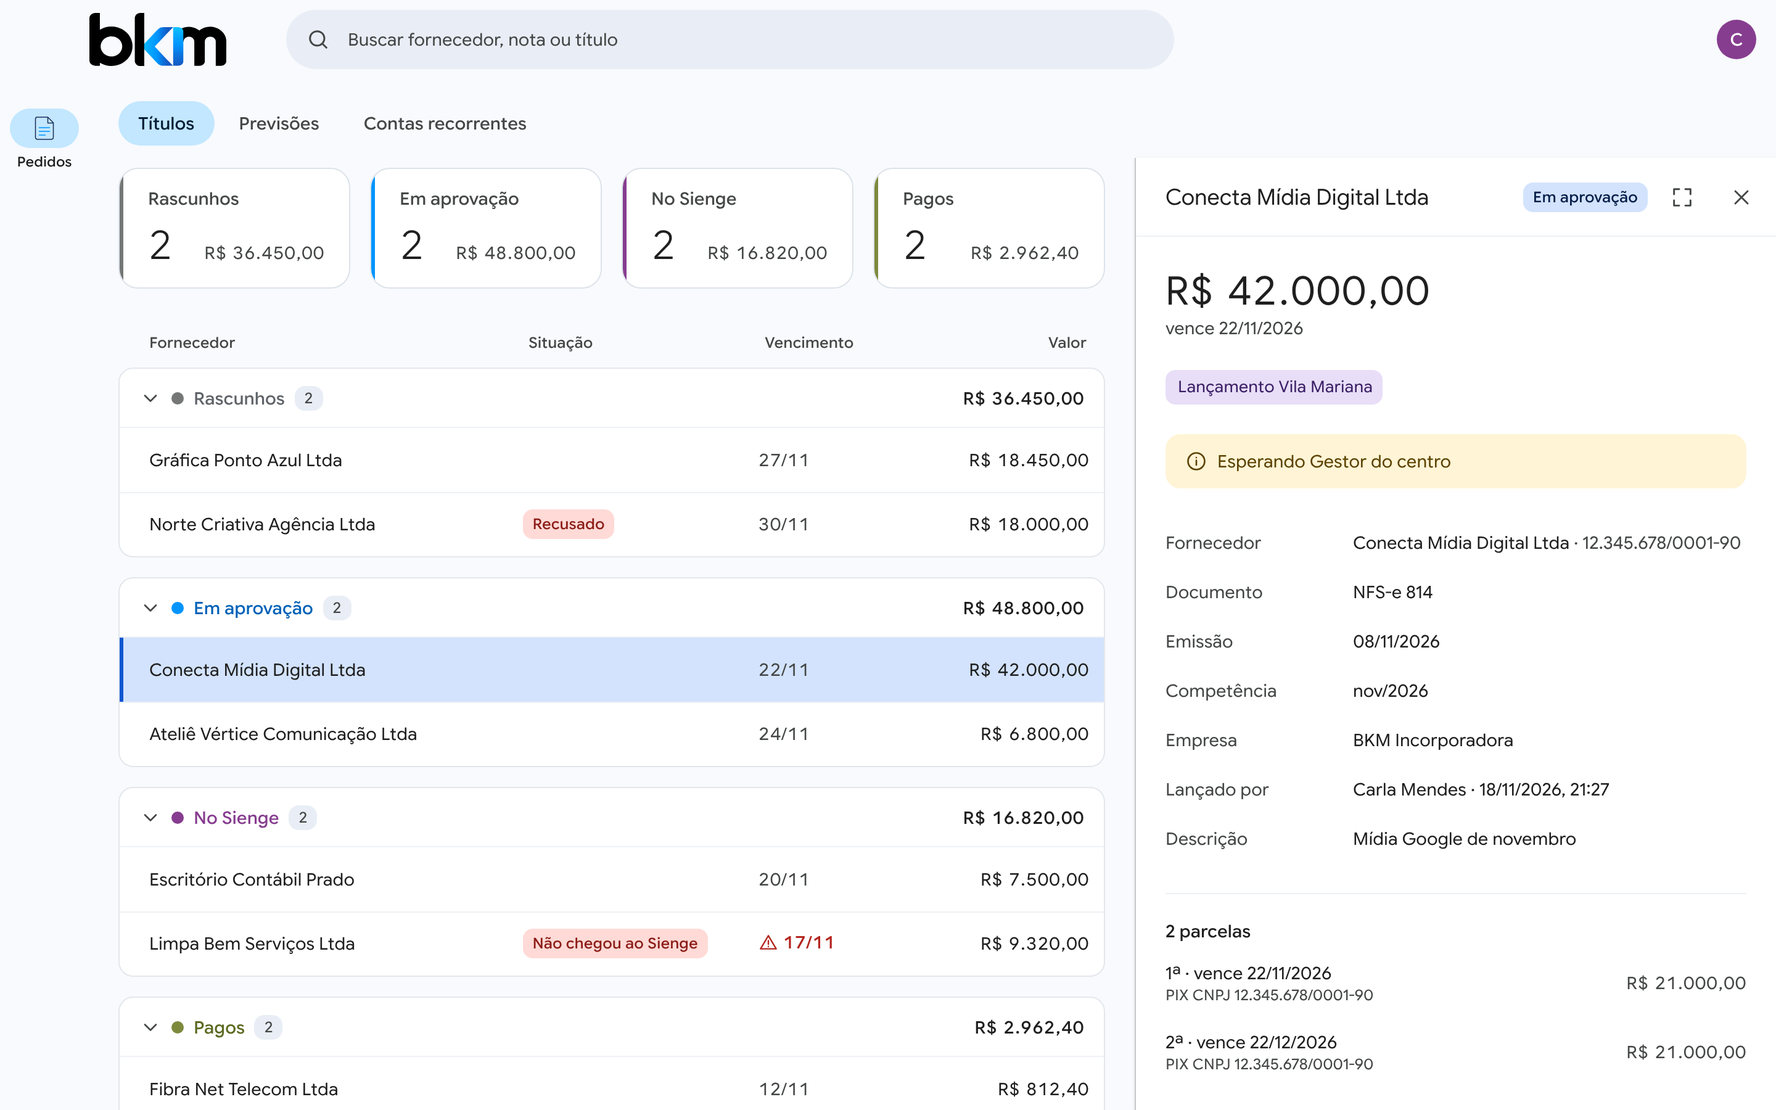
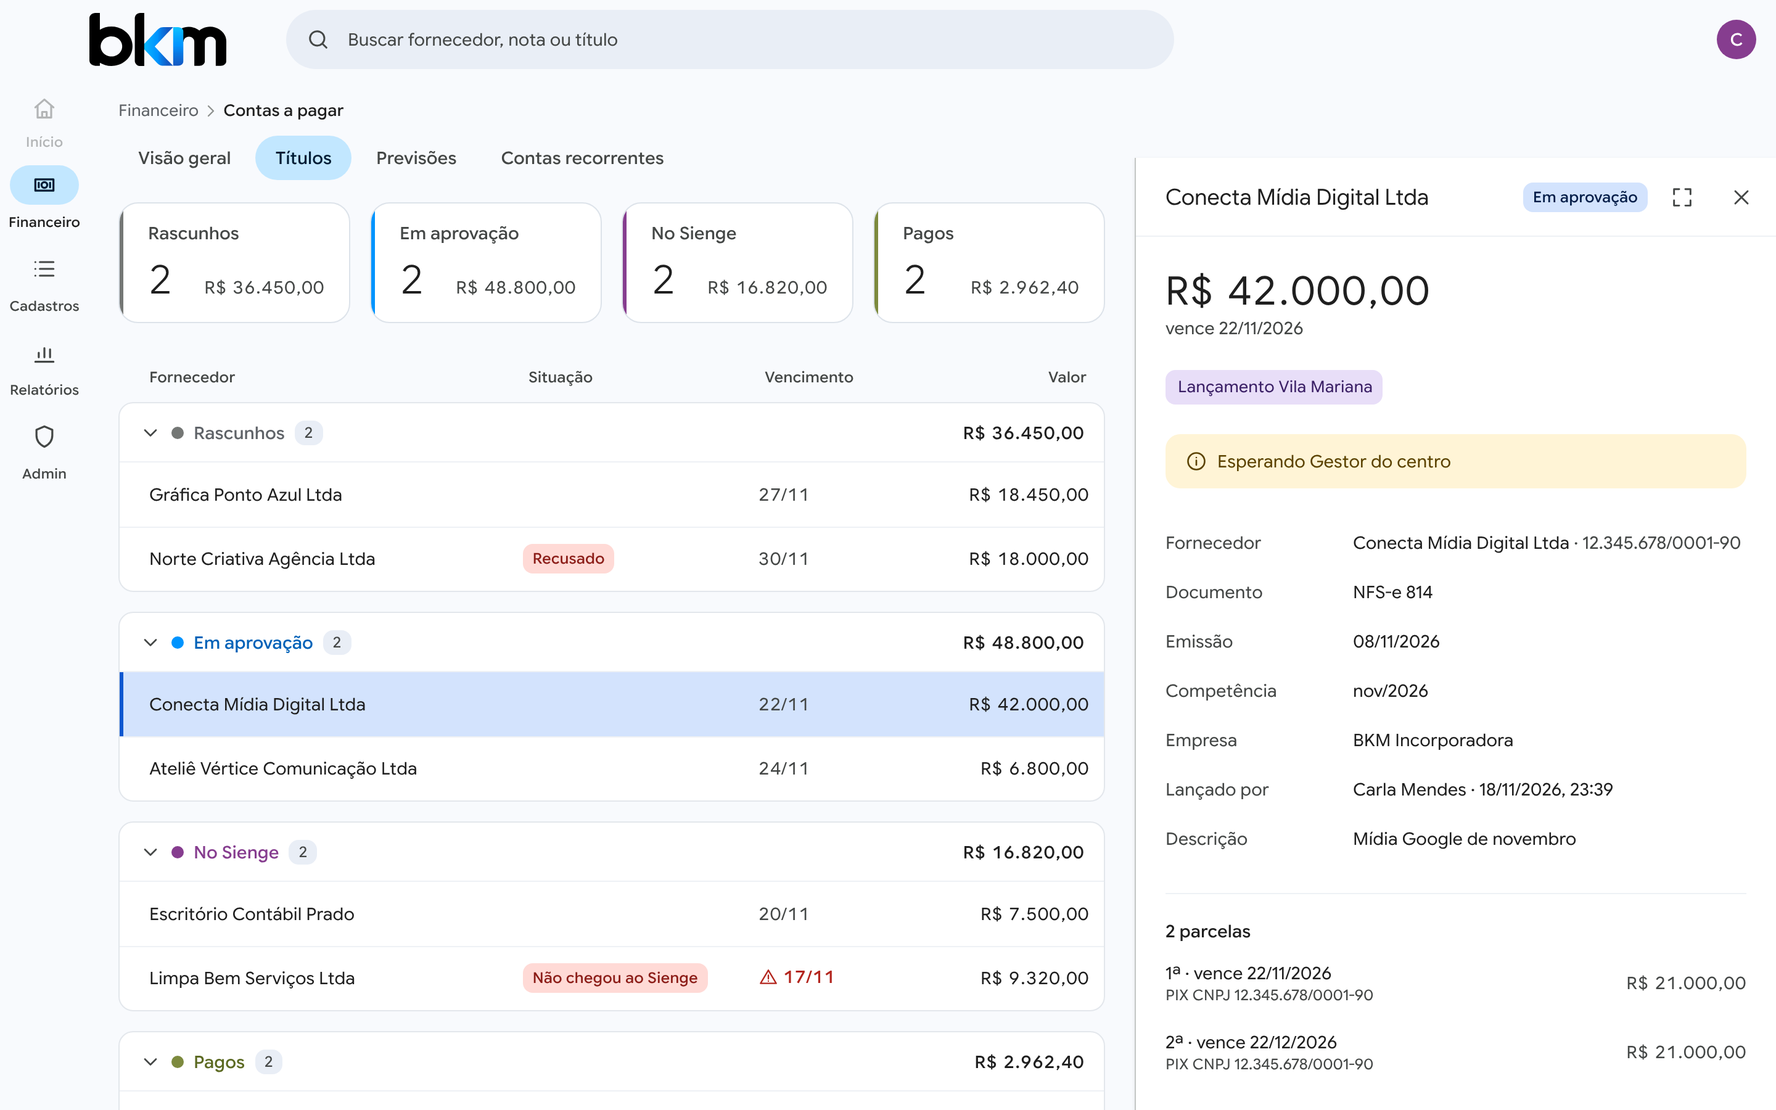
Navegação em três níveis e visão geral de Contas a pagar
Menu lateral com os módulos, gaveta dos submódulos e segunda gaveta com as páginas, abertas pelo mouse; trilha no alto da página; página /contas-a-pagar com números do momento e um cartão por seção.

Claude-Session: https://claude.ai/code/session_01KV2LwR2SUtD18ECjF8APje

diff --git a/apps/web/src/pages/ContasPagar.tsx b/apps/web/src/pages/ContasPagar.tsx
@@ -1,0 +1,80 @@
+// Visão geral de Contas a pagar (pedido do Moises, 18/11/2026): alguns números do momento e um cartão por seção,
+// com ícone, o que a pessoa encontra ali e o que pode fazer. Didática para quem chega; o dado vem das mesmas funções das listas.
+import { useQuery } from '@tanstack/react-query';
+import { Link } from 'react-router-dom';
+import { Cab, COR, Ic, type Cor } from '../components/Comum';
+import { hojeISO, reais0 } from '../lib/format';
+import type { NomeIcone } from '../lib/icones';
+import { rpc } from '../lib/supabase';
+import type { Contrato, Previsao, Titulo } from '../lib/tipos';
+
+const emDias = (n: number) => { const d = new Date(); d.setDate(d.getDate() + n); return d.toISOString().slice(0, 10); };
+const aberto = (t: Titulo) => !['pago', 'cancelado'].includes(t.etapa);
+const soma = (l: { valor: number | string | null }[]) => l.reduce((a, x) => a + Number(x.valor ?? 0), 0);
+
+type Secao = { to: string; r: string; ic: NomeIcone; cor: Cor; txt: string; faz: string[]; num: string };
+
+export function ContasPagar() {
+  const t = useQuery({ queryKey: ['titulos'], queryFn: () => rpc<Titulo[]>('titulos') }).data ?? [];
+  const p = useQuery({ queryKey: ['previsoes'], queryFn: () => rpc<Previsao[]>('previsoes') }).data ?? [];
+  const c = useQuery({ queryKey: ['contratos'], queryFn: () => rpc<Contrato[]>('contratos') }).data ?? [];
+  const hoje = hojeISO();
+  const semana = t.filter(x => aberto(x) && !!x.vencimento && x.vencimento >= hoje && x.vencimento <= emDias(7));
+  const vencidos = t.filter(x => aberto(x) && !!x.vencimento && x.vencimento < hoje);
+  const emAprov = t.filter(x => x.etapa === 'aprovacao');
+  const prevEsp = p.filter(x => x.situacao === 'aberta' && x.aprovacao === 'esperando');
+  const ativos = c.filter(x => x.situacao === 'ativo');
+  const mensal = ativos.filter(x => x.periodicidade === 'mensal').reduce((a, x) => a + Number(x.valor_periodo ?? 0), 0);
+
+  const kpis: { r: string; v: string; n: string; alerta?: boolean; to: string }[] = [
+    { r: 'A pagar nos próximos 7 dias', v: reais0(soma(semana)), n: `${semana.length} ${semana.length === 1 ? 'título' : 'títulos'}`, to: '/titulos' },
+    { r: 'Vencidos sem pagamento', v: reais0(soma(vencidos)), n: `${vencidos.length} ${vencidos.length === 1 ? 'título' : 'títulos'}`, alerta: vencidos.length > 0, to: '/titulos' },
+    { r: 'Esperando aprovação', v: reais0(soma(emAprov) + soma(prevEsp)), n: `${emAprov.length} ${emAprov.length === 1 ? 'título' : 'títulos'} e ${prevEsp.length} ${prevEsp.length === 1 ? 'previsão' : 'previsões'}`, to: '/titulos?f=aprov' },
+    { r: 'Contas recorrentes', v: `${reais0(mensal)}`, n: `por mês, ${ativos.length} ativas`, to: '/contratos' },
+  ];
+  const secoes: Secao[] = [
+    {
+      to: '/titulos', r: 'Títulos', ic: 'doc', cor: COR.azul,
+      txt: 'Cada nota, fatura ou boleto que a BKM vai pagar. O título vai do rascunho à aprovação, depois ao Sienge e ao pagamento.',
+      faz: ['Ver em que passo está cada título', 'Saber quem ainda precisa aprovar', 'Achar o que venceu ou não chegou ao Sienge'],
+      num: `${t.filter(aberto).length} em aberto`,
+    },
+    {
+      to: '/previsoes', r: 'Previsões', ic: 'clock', cor: COR.terra,
+      txt: 'Gastos combinados antes do serviço acontecer. Aprovada, a previsão reserva o valor, e a nota que chega depois consome o saldo.',
+      faz: ['Ver o que já está reservado', 'Acompanhar o saldo de cada previsão', 'Saber o que espera aprovação'],
+      num: `${p.filter(x => x.situacao === 'aberta').length} abertas`,
+    },
+    {
+      to: '/contratos', r: 'Contas recorrentes', ic: 'repetir', cor: COR.verde,
+      txt: 'Contratos de serviço e assinaturas que se repetem: o valor de cada período, o dia do vencimento e até quando valem.',
+      faz: ['Ver o que a BKM paga todo mês', 'Saber o que vence nos próximos 60 dias', 'Consultar contratos encerrados'],
+      num: `${ativos.length} ativas`,
+    },
+  ];
+  return (
+    <div className="f-pag cp">
+      <Cab t="Contas a pagar" />
+      <div className="cp-kpis">
+        {kpis.map(k => (
+          <Link key={k.r} to={k.to} className="cp-kpi">
+            <span className="cp-kr">{k.r}</span>
+            <span className={`cp-kv num ${k.alerta ? 'atras' : ''}`}>{k.v}</span>
+            <span className="cp-kn">{k.n}</span>
+          </Link>
+        ))}
+      </div>
+      <div className="cp-cards">
+        {secoes.map(s => (
+          <Link key={s.to} to={s.to} className="cp-card" style={{ ['--cc' as string]: s.cor.c, ['--ct' as string]: s.cor.t }}>
+            <span className="cp-ic"><Ic n={s.ic} s={32} /></span>
+            <span className="cp-t">{s.r}<span className="cp-num">{s.num}</span></span>
+            <span className="cp-txt">{s.txt}</span>
+            <span className="cp-faz">{s.faz.map(f => <span key={f}><Ic n="check" s={18} />{f}</span>)}</span>
+            <span className="cp-ir">Abrir {s.r}<Ic n="fwd" s={18} /></span>
+          </Link>
+        ))}
+      </div>
+    </div>
+  );
+}

diff --git a/apps/web/src/components/Moldura.tsx b/apps/web/src/components/Moldura.tsx
@@ -1,9 +1,10 @@
 // Moldura do ERP: barra de cima, menu lateral (barra de baixo no celular) e a área da página.
 // Desenho do protótipo aprovado (tpl.js › moldura); comportamento do BKM Terrenos (components/Moldura.tsx).
-import { useCallback, useState, type ReactNode } from 'react';
+import { useCallback, useEffect, useRef, useState, type ReactNode } from 'react';
 import { NavLink, useLocation, useSearchParams } from 'react-router-dom';
 import { useSessao } from '../lib/sessao';
-import { BASE, Ic, Logo, useFora } from './Comum';
+import { Ic, Logo, useFora } from './Comum';
+import { MODULOS, ondeEstou, type Modulo } from '../lib/modulos';
 
 const PAPEL: Record<string, string> = { diretor: 'Diretor', gestor: 'Gestor', analista: 'Analista', leitura: 'Leitura' };
 
@@ -17,7 +18,7 @@ export function Moldura({ children }: { children: ReactNode }) {
   const busca = q.get('q') ?? '';
   const comGaveta = /^\/(titulos|previsoes|contratos)\/[^/]+/.test(loc.pathname);
   const foto = sessao?.user.user_metadata?.avatar_url as string | undefined;
-  const pedidos = ['/titulos', '/previsoes', '/contratos'].some(p => loc.pathname.startsWith(p));
+  const atual = ondeEstou(loc.pathname);
 
   function buscar(v: string) {
     const n = new URLSearchParams(q);
@@ -50,14 +51,58 @@ export function Moldura({ children }: { children: ReactNode }) {
             )}
           </div>
         </header>
-        <nav className="rail">
-          <span className="fabr-vaga" />
-          <NavLink to={`/titulos${loc.search}`} className={`ri ${pedidos ? 'on' : ''}`}>
-            <span className="pil"><img src={`${BASE}marca/icone-documento.svg`} alt="" /></span>Pedidos
-          </NavLink>
-        </nav>
+        <Menu atual={atual.m?.k} sub={atual.s?.r} />
         <main className={`main ${comGaveta ? 'com-gav' : ''}`}>{children}</main>
       </div>
+    </div>
+  );
+}
+
+/** Menu lateral com os módulos; o submódulo abre numa coluna ao lado (clique, ou o mouse parado 0,3 s), que fecha ao sair. */
+function Menu({ atual, sub }: { atual?: string; sub?: string }) {
+  const [aberto, setAberto] = useState<string | null>(null);
+  const t = useRef<number>();
+  const fechar = useCallback(() => setAberto(null), []);
+  const ref = useFora<HTMLDivElement>(aberto != null, fechar);
+  const loc = useLocation();
+  useEffect(() => setAberto(null), [loc.pathname]);
+  useEffect(() => () => window.clearTimeout(t.current), []);
+  const m = MODULOS.find(x => x.k === aberto);
+  // Submódulo com filhos abre uma segunda coluna ao lado (como no Business Manager da Meta), no clique ou no mouse.
+  const [pai, setPai] = useState<string | null>(null);
+  useEffect(() => setPai(null), [aberto]);
+  const filhos = m?.subs.find(x => x.r === pai)?.filhos;
+  function agendar(k: string | null, ms: number) { window.clearTimeout(t.current); t.current = window.setTimeout(() => setAberto(k), ms); }
+  function item(x: Modulo) {
+    const conteudo = <><span className="pil"><Ic n={x.ic} s={22} /></span>{x.r}</>;
+    const cls = `ri ${x.k === atual ? 'on' : ''} ${x.k === aberto ? 'ab' : ''}`;
+    if (!x.subs.length) return <span key={x.k} className={`${cls} off`} title="Em breve">{conteudo}</span>;
+    return (
+      <button key={x.k} className={cls} aria-expanded={x.k === aberto} onClick={() => setAberto(x.k === aberto ? null : x.k)}
+        onMouseEnter={() => agendar(x.k, aberto ? 0 : 150)} onMouseLeave={() => window.clearTimeout(t.current)}>{conteudo}</button>
+    );
+  }
+  return (
+    <div className="nav-w" ref={ref} onMouseLeave={() => aberto && agendar(null, 400)} onMouseEnter={() => aberto && window.clearTimeout(t.current)}>
+      <nav className="rail" aria-label="Módulos">{MODULOS.map(item)}</nav>
+      {m && (
+        <div className="subm" role="menu" aria-label={m.r}>
+          <div className="subm-t">{m.r}</div>
+          {m.subs.map(s => !s.to
+            ? <span key={s.r} className="subm-i off" role="menuitem" aria-disabled="true" onMouseEnter={() => setPai(null)}>{s.r}<span className="subm-eb">Em breve</span></span>
+            : s.filhos
+              ? <NavLink key={s.r} to={s.to} role="menuitem" aria-haspopup="menu" aria-expanded={s.r === pai}
+                  className={`subm-i subm-pai ${s.r === sub && m.k === atual ? 'at' : ''} ${s.r === pai ? 'ab' : ''}`}
+                  onMouseEnter={() => setPai(s.r)} onFocus={() => setPai(s.r)}>{s.r}<Ic n="chev" s={18} /></NavLink>
+              : <NavLink key={s.r} to={s.to} role="menuitem" onMouseEnter={() => setPai(null)} className={`subm-i ${s.r === sub && m.k === atual ? 'on' : ''}`}>{s.r}</NavLink>)}
+        </div>
+      )}
+      {m && pai && filhos && (
+        <div className="subm subm2" role="menu" aria-label={pai}>
+          <div className="subm-t">{pai}</div>
+          {filhos.map(f => <NavLink key={f.to} to={f.to} end role="menuitem" className={({ isActive }) => `subm-i ${isActive ? 'on' : ''}`}>{f.r}</NavLink>)}
+        </div>
+      )}
     </div>
   );
 }

diff --git a/apps/web/src/app.css b/apps/web/src/app.css
@@ -157,3 +157,68 @@
   .f-gav .kv .v{font-size:16px;line-height:24px;border-bottom:0 !important;min-height:0 !important;padding:0}
   .f-gav .gav-f{padding:12px 16px calc(12px + env(safe-area-inset-bottom))}
 }
+
+/* ---------- Navegação em três níveis (18/11/2026): módulo no menu, submódulo na coluna ao lado, abas na página ---------- */
+.nav-w{display:contents}
+button.ri{cursor:pointer;font:inherit;font-size:11px;font-weight:500}
+.ri .pil{color:var(--m-on-var)}
+.ri.on .pil{color:#001d35}
+.ri.ab:not(.on) .pil{background:rgba(31,31,31,.08)}
+.ri.off{opacity:.38;cursor:default}
+.ri.off:hover .pil{background:none}
+.subm{position:fixed;left:80px;top:72px;z-index:80;width:264px;background:#fff;border:1px solid #e3e7ec;border-radius:16px;box-shadow:0 4px 16px rgba(60,64,67,.16);padding:8px 0 12px}
+.subm-t{font-size:14px;font-weight:500;color:var(--m-on-surface);padding:10px 24px 8px}
+.subm-i{display:flex;align-items:center;justify-content:space-between;gap:8px;height:44px;margin:0 8px;padding:0 16px;border-radius:22px;font-size:14px;color:var(--m-on-surface);text-decoration:none}
+a.subm-i:hover{background:rgba(31,31,31,.06)}
+.subm-i.on{background:#c2e7ff;color:#001d35;font-weight:500}
+.subm-i.off{color:#8e918f;cursor:default}
+.subm-eb{font-size:11px;color:#8e918f}
+.f-trilha{display:flex;align-items:center;gap:2px;font-size:13px;color:#5f6368;height:28px;padding-top:8px}
+.f-trilha b{font-weight:500;color:var(--m-on-surface)}
+.f-trilha .ic{color:#8e918f}
+@container app (max-width:900px){
+  .subm{left:8px;right:8px;top:auto;bottom:88px;width:auto}
+  .f-trilha{padding:8px 16px 0}
+  .ri{font-size:11px}
+}
+.subm-pai{width:calc(100% - 16px);border:0;background:none;font:inherit;font-size:14px;cursor:pointer;text-align:left}
+.subm-pai:hover{background:rgba(31,31,31,.06)}
+.subm-pai.at{font-weight:500}
+.subm-pai .ic{color:#5f6368}
+.subm-pai.ab{background:rgba(31,31,31,.08)}
+.subm2{left:352px;width:240px}
+@container app (max-width:900px){ .subm2{left:8px;z-index:81} }
+.f-trilha a{color:inherit;text-decoration:none}
+.f-trilha a:not(.active):hover b{text-decoration:underline}
+
+/* ---------- Visão geral de Contas a pagar (18/11/2026) ---------- */
+.cp-kpis{display:grid;grid-template-columns:repeat(4,minmax(0,1fr));gap:16px;margin-bottom:32px}
+.cp-kpi{display:flex;flex-direction:column;gap:4px;padding:20px 24px;background:#fff;border:1px solid #e3e7ec;border-radius:16px;text-decoration:none;color:inherit;min-height:120px}
+.cp-kpi:hover{border-color:#c4c7c5;background:#fbfcfe}
+.cp-kr{font-size:14px;color:#444746}
+.cp-kv{font-size:32px;line-height:40px;font-weight:300;color:var(--m-on-surface);margin-top:auto;white-space:nowrap;overflow:hidden;text-overflow:ellipsis}
+.cp-kv.atras{color:var(--cr)}
+.cp-kn{font-size:13px;color:#5f6368}
+.cp-cards{display:grid;grid-template-columns:repeat(3,minmax(0,1fr));gap:24px}
+.cp-card{display:flex;flex-direction:column;gap:12px;padding:28px 28px 24px;background:#fff;border:1px solid #e3e7ec;border-radius:24px;text-decoration:none;color:inherit;transition:box-shadow .15s,border-color .15s}
+.cp-card:hover{border-color:transparent;box-shadow:0 1px 3px rgba(60,64,67,.15),0 4px 12px rgba(60,64,67,.12)}
+.cp-ic{width:64px;height:64px;border-radius:20px;display:grid;place-items:center;color:var(--ct);background:color-mix(in srgb,var(--cc) 14%,#fff);margin-bottom:8px}
+.cp-t{display:flex;align-items:baseline;justify-content:space-between;gap:12px;font-size:22px;line-height:28px;font-weight:400;color:var(--m-on-surface)}
+.cp-num{font-size:13px;font-weight:500;color:var(--ct);white-space:nowrap}
+.cp-txt{font-size:14px;line-height:22px;color:#444746}
+.cp-faz{display:flex;flex-direction:column;gap:8px;padding:12px 0 4px;border-top:1px solid #eef0f3;margin-top:4px}
+.cp-faz span{display:flex;align-items:center;gap:10px;font-size:14px;color:var(--m-on-surface)}
+.cp-faz .ic{color:var(--ct);flex:none}
+.cp-ir{display:flex;align-items:center;gap:6px;margin-top:auto;padding-top:12px;font-size:14px;font-weight:500;color:#0b57d0}
+.cp-card:hover .cp-ir .ic{transform:translateX(3px)}
+.cp-ir .ic{transition:transform .15s}
+@container app (max-width:1279px){ .cp-kpis{grid-template-columns:repeat(2,minmax(0,1fr))} }
+@container app (max-width:1100px){ .cp-cards{grid-template-columns:minmax(0,1fr)} .cp-card{display:grid;grid-template-columns:64px minmax(0,1fr);column-gap:20px} .cp-card>*:not(.cp-ic){grid-column:2} .cp-ic{grid-row:1/span 5;margin:0} }
+@container app (max-width:900px){
+  .cp .cp-kpis,.cp .cp-cards{padding:0 16px}
+  .cp-kpis{gap:12px;margin-bottom:24px}
+  .cp-kpi{padding:16px;min-height:104px;border-radius:12px}
+  .cp-kv{font-size:24px;line-height:32px}
+  .cp-card{display:flex;padding:24px 20px;border-radius:16px}
+  .cp-cards{gap:16px}
+}

diff --git a/apps/web/src/components/Comum.tsx b/apps/web/src/components/Comum.tsx
@@ -1,6 +1,7 @@
 // Peças comuns das telas, no desenho da linha F do protótipo aprovado (tpl.js: ic, dTiles, fCab, fAbas, fGrupo, gavB, kvB, ch).
 import { useEffect, useRef, useState, type KeyboardEvent as TeclaReact, type ReactNode } from 'react';
-import { NavLink, useParams } from 'react-router-dom';
+import { NavLink, useLocation, useParams } from 'react-router-dom';
+import { ondeEstou } from '../lib/modulos';
 import { P, type NomeIcone } from '../lib/icones';
 import { AMBIENTE } from '../lib/config';
 
@@ -43,7 +44,7 @@ export function Chip({ t, c }: { t: string; c: CorChip }) {
 
 /** Abas da página de pedidos (tpl.js › fAbas). */
 export function Abas() {
-  const abas: [string, string][] = [['/titulos', 'Títulos'], ['/previsoes', 'Previsões'], ['/contratos', 'Contas recorrentes']];
+  const abas: [string, string][] = [['/contas-a-pagar', 'Visão geral'], ['/titulos', 'Títulos'], ['/previsoes', 'Previsões'], ['/contratos', 'Contas recorrentes']];
   return <nav className="f-abas">{abas.map(([to, r]) => <NavLink key={to} to={to} className={({ isActive }) => (isActive ? 'on' : '')}>{r}</NavLink>)}</nav>;
 }
 
@@ -57,7 +58,13 @@ export type Cor = (typeof COR)[keyof typeof COR];
 /** Linha de cabeçalho compacta: as abas no lugar do título grande (o h1 fica só para leitor de tela) e as ações à direita. */
 export function Cab({ t, children }: { t: string; children?: ReactNode }) {
   useEffect(() => { document.title = `${t} · ERP BKM`; }, [t]);
-  return <div className="f-head"><h1 className="sr-only">{t}</h1><Abas /><span className="esp" />{children}</div>;
+  const { m, s } = ondeEstou(useLocation().pathname);
+  return (
+    <>
+      {m && s && <nav className="f-trilha" aria-label="Onde estou"><span>{m.r}</span><Ic n="chev" s={16} />{s.to ? <NavLink to={s.to} end><b>{s.r}</b></NavLink> : <b>{s.r}</b>}</nav>}
+      <div className="f-head"><h1 className="sr-only">{t}</h1><Abas /><span className="esp" />{children}</div>
+    </>
+  );
 }
 
 /** Contadores que filtram (tpl.js › dTiles): o clique no ligado volta para "todos". A cor é a do grupo, nunca a da posição. */

diff --git a/apps/web/src/lib/modulos.ts b/apps/web/src/lib/modulos.ts
@@ -1,0 +1,28 @@
+// Árvore de navegação do ERP: módulo (menu lateral) › submódulo (coluna ao lado do menu) › abas da página.
+// Lista de módulos do passo 1 (doc de telas de 8/11/2026). Submódulo sem `to` ainda não existe e aparece apagado.
+import type { NomeIcone } from './icones';
+
+export type Sub = { r: string; to?: string; rotas?: string[]; filhos?: { r: string; to: string }[] };
+export type Modulo = { k: string; r: string; ic: NomeIcone; subs: Sub[] };
+
+export const MODULOS: Modulo[] = [
+  { k: 'inicio', r: 'Início', ic: 'casa', subs: [] },
+  {
+    k: 'fin', r: 'Financeiro', ic: 'money', subs: [
+      { r: 'Contas a pagar', to: '/contas-a-pagar', rotas: ['/contas-a-pagar', '/titulos', '/previsoes', '/contratos'], filhos: [
+        { r: 'Visão geral', to: '/contas-a-pagar' }, { r: 'Títulos', to: '/titulos' }, { r: 'Previsões', to: '/previsoes' }, { r: 'Contas recorrentes', to: '/contratos' }] },
+      { r: 'Recebimento de notas' },
+      { r: 'Retenções' },
+      { r: 'Plano financeiro' },
+    ],
+  },
+  { k: 'cad', r: 'Cadastros', ic: 'lista', subs: [{ r: 'Fornecedores' }, { r: 'Núcleos e centros' }, { r: 'Naturezas' }] },
+  { k: 'rel', r: 'Relatórios', ic: 'grafico', subs: [{ r: 'Contas a pagar' }] },
+  { k: 'adm', r: 'Admin', ic: 'escudo', subs: [{ r: 'Pessoas e acessos' }, { r: 'Alçadas' }, { r: 'Notificações' }] },
+];
+
+/** Módulo e submódulo da rota atual. */
+export function ondeEstou(caminho: string): { m?: Modulo; s?: Sub } {
+  for (const m of MODULOS) for (const s of m.subs) if (s.rotas?.some(r => caminho.startsWith(r))) return { m, s };
+  return {};
+}

diff --git a/apps/web/src/App.tsx b/apps/web/src/App.tsx
@@ -7,6 +7,7 @@ import { Moldura } from './components/Moldura';
 import { Titulos } from './pages/Titulos';
 import { Previsoes } from './pages/Previsoes';
 import { Contratos } from './pages/Contratos';
+import { ContasPagar } from './pages/ContasPagar';
 
 export function App() {
   const { sessao, carregando, eu, euCarregando, euErro } = useSessao();
@@ -20,11 +21,12 @@ export function App() {
   return (
     <Moldura>
       <Routes>
-        <Route path="/" element={<Navigate to="/titulos" replace />} />
+        <Route path="/" element={<Navigate to="/contas-a-pagar" replace />} />
+        <Route path="/contas-a-pagar" element={<ContasPagar />} />
         <Route path="/titulos/:id?" element={<Titulos />} />
         <Route path="/previsoes/:id?" element={<Previsoes />} />
         <Route path="/contratos/:id?" element={<Contratos />} />
-        <Route path="*" element={<Navigate to="/titulos" replace />} />
+        <Route path="*" element={<Navigate to="/contas-a-pagar" replace />} />
       </Routes>
     </Moldura>
   );

diff --git a/apps/web/src/lib/icones.ts b/apps/web/src/lib/icones.ts
@@ -1,5 +1,9 @@
 // Ícones de linha do protótipo do ERP (fontes/icones.ts, que copia os do BKM Terrenos, mais os de tpl.js). Não editar à mão.
 export const P = {
+  "repetir": "M4 12a8 8 0 0 1 14-5.3M20 4v4h-4M20 12a8 8 0 0 1-14 5.3M4 20v-4h4",
+  "casa": "M4 11 12 4l8 7M6 9.5V20h12V9.5M10 20v-5h4v5",
+  "escudo": "M12 3l7 3v5c0 4.5-3 8-7 10-4-2-7-5.5-7-10V6z",
+  "grafico": "M4 20h16M7 16v-4M12 16V8M17 16v-7",
   "fwd": "M5 12h14M13 6l6 6-6 6",
   "edit": "M4 20h4L19 9l-4-4L4 16zM13.5 6.5l4 4",
   "recolher": "M13 6l-6 6 6 6M19 6l-6 6 6 6",

diff --git a/apps/web/README.md b/apps/web/README.md
@@ -22,6 +22,9 @@ No Supabase, `api` precisa estar em Settings › API › Exposed schemas. O `erp
 
 ## Telas
 
+Navegação em três níveis (18/11/2026): o menu lateral tem os módulos (`src/lib/modulos.ts`); o mouse sobre um módulo abre a gaveta dos submódulos, e sobre um submódulo, uma segunda gaveta com as páginas (como no Business Manager da Meta). No alto da página, a trilha (Financeiro › Contas a pagar) e as abas.
+
+- `/contas-a-pagar`: visão geral, com quatro números do momento e um cartão por seção explicando o que se encontra e o que se faz nela.
 - `/titulos`, `/titulos/:id`: títulos por etapa (Rascunhos, Em aprovação, No Sienge, Pagos), com a gaveta do título.
 - `/previsoes`, `/previsoes/:id`: previsões por situação.
 - `/contratos`, `/contratos/:id`: contratos de serviço e assinaturas.
